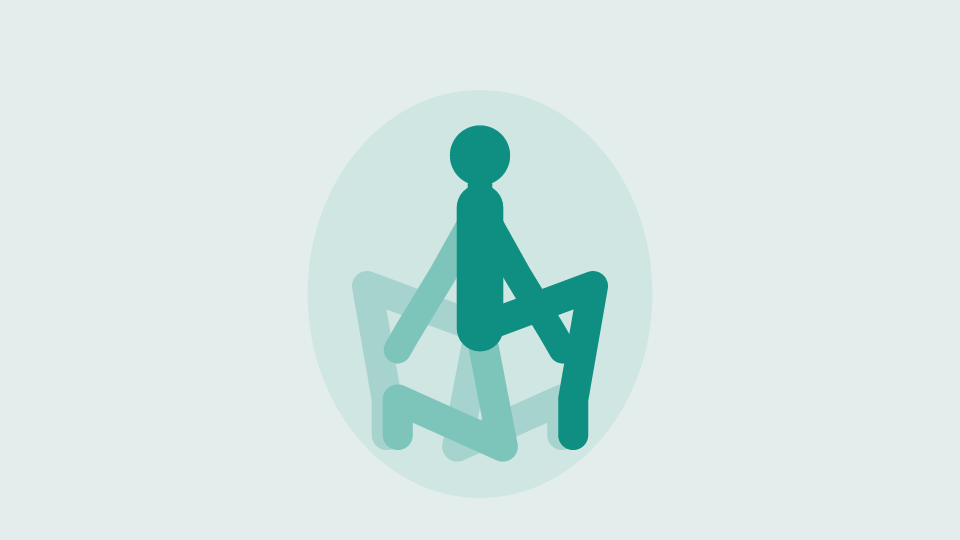
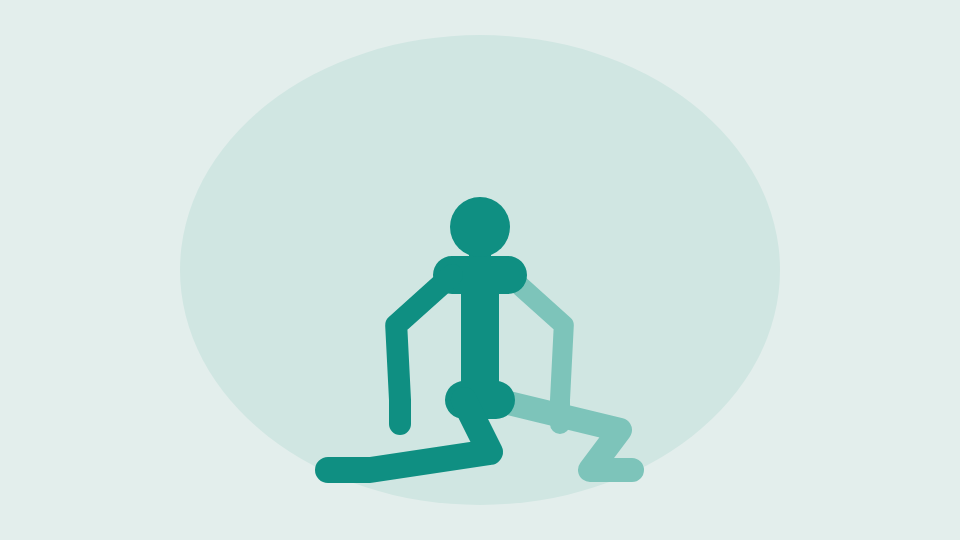
add new exercise animations and update exercise data for seated hip internal rotation, 90 to 90 side foot lifts, reverse clamshells, and windshield wipers with knee lift

Changed region(s): [[0.3125, 0.237, 0.6875, 0.9185]]

diff --git a/src/data/exercise-animations.ts b/src/data/exercise-animations.ts
@@ -812,10 +812,11 @@ const ROTATIONS_BASE = {
   farFoot: [590, 470, 0],
 } satisfies Partial<Pose>;
 
+/** The back knee, turned in, rests low on the floor beside the hips, so it stands clear of the body. */
 const ROTATIONS_RIGHT: Pose = {
   ...ROTATIONS_BASE,
   knees: [
-    [500, 400],
+    [490, 452],
     [620, 430],
   ],
 };
@@ -830,7 +831,7 @@ const ROTATIONS_LEFT: Pose = {
   ...ROTATIONS_BASE,
   knees: [
     [340, 430],
-    [460, 400],
+    [470, 452],
   ],
 };
 
@@ -2775,4 +2776,173 @@ export const LYING_EXTERNAL_ROTATION_STRETCH: FigureClip = {
   // Running across the body, parallel to the shoulders.
   dumbbells: { hands: ['nearHand'], angle: 90 },
   ...intoHold(LYING_ER_UP, [{ ms: 1800, pose: LYING_ER_DOWN }]),
+};
+
+// ===== Active hip internal rotation drills =====
+
+// --- Seated hip internal rotation: the hip rotation test's swing out to the side, repeated against a band around the feet ---
+
+const SEATED_ROTATED_IN: Pose = { ...SEATED, nearFoot: shinAt(-40) };
+
+export const SEATED_HIP_INTERNAL_ROTATION: FigureClip = {
+  view: 'side',
+  widths: STANDING_FRONT_WIDTHS,
+  armBends: [-1, 1],
+  miniBand: 'ankles',
+  scenery: TABLE,
+  zoom: 1.3,
+  focus: [480, 300],
+  stillFrame: 2,
+  keyframes: [
+    { ms: 0, pose: SEATED },
+    { ms: 300, pose: SEATED },
+    { ms: 1200, pose: SEATED_ROTATED_IN },
+    { ms: 400, pose: SEATED_ROTATED_IN },
+    { ms: 1200, pose: SEATED },
+  ],
+};
+
+// --- 90 to 90 side foot lifts: in the 90 to 90, turned toward the front leg, the back foot lifts off the floor ---
+
+/** The 90 to 90, with the back foot, the far one, drawn in a little so it has room to lift. */
+const SIDE_FOOT_SEATED: Pose = { ...ROTATIONS_LEFT, farFoot: [565, 468, 0] };
+/**
+ * Turned toward the front shin on the figure's right, as in the 90 to 90, but sitting tall rather
+ * than folding down, with the hands resting on the floor beside it.
+ */
+const SIDE_FOOT_TURNED: Pose = {
+  ...SIDE_FOOT_SEATED,
+  torso: 120,
+  torsoLength: 120,
+  neck: 125,
+  nearHand: [360, 440, -90],
+  farHand: [405, 420, -90],
+};
+/** The back foot lifts, the knee staying down. */
+const SIDE_FOOT_LIFTED: Pose = { ...SIDE_FOOT_TURNED, farFoot: [560, 420, 20] };
+
+export const NINETY_TO_NINETY_SIDE_FOOT_LIFTS: FigureClip = {
+  view: 'above',
+  widths: { shoulder: 28, hip: 16 },
+  armBends: [-1, 1],
+  stillFrame: 3,
+  keyframes: [
+    { ms: 0, pose: SIDE_FOOT_SEATED },
+    { ms: 400, pose: SIDE_FOOT_SEATED },
+    { ms: 1200, pose: SIDE_FOOT_TURNED },
+    { ms: 1000, pose: SIDE_FOOT_LIFTED },
+    { ms: 500, pose: SIDE_FOOT_LIFTED },
+    { ms: 1000, pose: SIDE_FOOT_TURNED },
+    { ms: 500, pose: SIDE_FOOT_TURNED },
+    { ms: 1000, pose: SIDE_FOOT_LIFTED },
+    { ms: 500, pose: SIDE_FOOT_LIFTED },
+    { ms: 1000, pose: SIDE_FOOT_TURNED },
+    { ms: 1200, pose: SIDE_FOOT_SEATED },
+  ],
+};
+
+// --- Windshield wipers with knee lift: feet hip-width, the knees tip side to side without touching down, the top knee lifting against the band ---
+
+/** Leaning back on the hands, with the feet about hip-width apart and the knees up. */
+const WIPERS_UP: Pose = {
+  ...ROTATIONS_BASE,
+  nearHand: [390, 405, -90],
+  farHand: [570, 405, -90],
+  nearFoot: [440, 470, 180],
+  farFoot: [520, 470, 0],
+  knees: [
+    [445, 330],
+    [515, 330],
+  ],
+};
+/** Tipped to the figure's right, both knees hovering well off the floor. */
+const WIPERS_LEFT: Pose = {
+  ...WIPERS_UP,
+  knees: [
+    [370, 382],
+    [438, 362],
+  ],
+};
+/** The top knee lifts away from the bottom one, stretching the band, and brings its foot up off the floor. */
+const WIPERS_LEFT_LIFTED: Pose = {
+  ...WIPERS_UP,
+  farFoot: [545, 405, 10],
+  knees: [
+    [370, 382],
+    [472, 328],
+  ],
+};
+const WIPERS_RIGHT: Pose = {
+  ...WIPERS_UP,
+  knees: [
+    [522, 362],
+    [590, 382],
+  ],
+};
+const WIPERS_RIGHT_LIFTED: Pose = {
+  ...WIPERS_UP,
+  nearFoot: [415, 405, 170],
+  knees: [
+    [488, 328],
+    [590, 382],
+  ],
+};
+
+export const WINDSHIELD_WIPERS_WITH_KNEE_LIFT: FigureClip = {
+  ...NINETY_TO_NINETY_ROTATIONS,
+  miniBand: 'knees',
+  stillFrame: 3,
+  keyframes: [
+    { ms: 0, pose: WIPERS_RIGHT },
+    { ms: 900, pose: WIPERS_UP, ease: 'in' },
+    { ms: 900, pose: WIPERS_LEFT, ease: 'out' },
+    { ms: 800, pose: WIPERS_LEFT_LIFTED },
+    { ms: 300, pose: WIPERS_LEFT_LIFTED },
+    { ms: 800, pose: WIPERS_LEFT },
+    { ms: 900, pose: WIPERS_UP, ease: 'in' },
+    { ms: 900, pose: WIPERS_RIGHT, ease: 'out' },
+    { ms: 800, pose: WIPERS_RIGHT_LIFTED },
+    { ms: 300, pose: WIPERS_RIGHT_LIFTED },
+    { ms: 800, pose: WIPERS_RIGHT },
+  ],
+};
+
+// --- Reverse clamshells: lying on the side, facing the camera, the top knee opens up, then the top foot lifts ---
+
+/** Hips and knees bent, the thighs reaching partly toward the camera, so the legs look short. */
+const CLAM_CLOSED: Pose = {
+  ...SIDE_LYING_IN,
+  nearFoot: [235, 432, 180],
+  farFoot: [235, 456, 180],
+  knees: [
+    [305, 426],
+    [305, 454],
+  ],
+};
+const CLAM_OPEN: Pose = {
+  ...CLAM_CLOSED,
+  nearFoot: [262, 430, 180],
+  knees: [
+    [330, 360],
+    [305, 454],
+  ],
+};
+/** The knee stays put as the shin swings up around it. */
+const CLAM_FOOT_UP: Pose = { ...CLAM_OPEN, nearFoot: [245, 350, 160] };
+
+export const REVERSE_CLAMSHELLS: FigureClip = {
+  view: 'side',
+  widths: { shoulder: 18, hip: 14 },
+  zoom: 1.3,
+  focus: [420, 380],
+  stillFrame: 3,
+  keyframes: [
+    { ms: 0, pose: CLAM_CLOSED },
+    { ms: 300, pose: CLAM_CLOSED },
+    { ms: 1200, pose: CLAM_OPEN },
+    { ms: 1000, pose: CLAM_FOOT_UP },
+    { ms: 300, pose: CLAM_FOOT_UP },
+    { ms: 1000, pose: CLAM_OPEN },
+    { ms: 1200, pose: CLAM_CLOSED },
+  ],
 };

diff --git a/src/data/exercises.ts b/src/data/exercises.ts
@@ -51,6 +51,7 @@ import {
   NECK_SIDE_STRETCH,
   NINETY_TO_NINETY,
   NINETY_TO_NINETY_ROTATIONS,
+  NINETY_TO_NINETY_SIDE_FOOT_LIFTS,
   OPEN_BOOK,
   OVERHEAD_TRICEPS_STRETCH,
   PANCAKE,
@@ -60,9 +61,11 @@ import {
   PUPPY_POSE,
   PYRAMID_STRETCH,
   RESTING_COSSACK_SQUAT,
+  REVERSE_CLAMSHELLS,
   REVERSE_SCORPION,
   REVERSE_TABLETOP,
   SCAP_MOBILIZATION,
+  SEATED_HIP_INTERNAL_ROTATION,
   SEATED_PIKE_STRETCH,
   SEATED_SHOULDER_EXTENSION,
   SEATED_STRADDLE_SIDE_BEND,
@@ -75,6 +78,7 @@ import {
   THE_SAGITTARIUS,
   THREAD_THE_NEEDLE,
   THREE_LEGGED_DOWNWARD_FACING_DOG,
+  WINDSHIELD_WIPERS_WITH_KNEE_LIFT,
   WORLDS_GREATEST_STRETCH,
   WRIST_ROCKS,
 } from './exercise-animations';
@@ -1233,6 +1237,70 @@ const ALL_EXERCISES: Exercise[] = [
     photo: require('@/assets/images/exercises/lying-external-rotation-stretch.png'),
     animation: LYING_EXTERNAL_ROTATION_STRETCH,
     twoSided: true,
+  },
+  {
+    id: 'seated-hip-internal-rotation',
+    name: 'Seated hip internal rotation',
+    stimulus: 'Hip internal rotation and deep hip rotators',
+    areas: ['hips'],
+    position: 'seated',
+    instructions: [
+      'Sit on the edge of a chair with your knees bent at 90°, in line with your hips, and a mini band looped around both feet',
+      'Keeping both knees in place, swing one foot out to the side against the band as far as you can, turning the thigh in',
+      'Bring it back and keep repeating, then switch sides. Take the band off to make it easier',
+    ],
+    photo: require('@/assets/images/exercises/seated-hip-internal-rotation.png'),
+    animation: SEATED_HIP_INTERNAL_ROTATION,
+    twoSided: true,
+    active: true,
+  },
+  {
+    id: '90-to-90-side-foot-lifts',
+    name: '90 to 90 side foot lifts',
+    stimulus: 'Hip internal rotation and deep hip rotators',
+    areas: ['hips'],
+    position: 'seated',
+    instructions: [
+      'Sit in the 90 to 90, both legs bent at 90°, one in front and one to the side',
+      'Sit tall and turn your chest toward the front leg, then, keeping both knees on the floor, lift the back foot off the floor as high as you can, even if it barely moves',
+      'Lower it slowly and keep repeating, then switch sides. Sit on a cushion to make it easier',
+    ],
+    photo: require('@/assets/images/exercises/90-to-90-side-foot-lifts.png'),
+    animation: NINETY_TO_NINETY_SIDE_FOOT_LIFTS,
+    twoSided: true,
+    active: true,
+  },
+  {
+    id: 'reverse-clamshells',
+    name: 'Reverse clamshells',
+    stimulus: 'Hip internal rotation, glutes and outer hip',
+    areas: ['hips'],
+    position: 'seated',
+    instructions: [
+      'Lie on your side with your hips stacked and your knees bent, feet together',
+      'Open your top knee up toward the ceiling',
+      'Keeping that knee where it is, lift the top foot up toward the ceiling, then lower it and keep repeating. Switch sides',
+    ],
+    photo: require('@/assets/images/exercises/reverse-clamshells.png'),
+    animation: REVERSE_CLAMSHELLS,
+    twoSided: true,
+    active: true,
+  },
+  {
+    id: 'windshield-wipers-with-knee-lift',
+    name: 'Windshield wipers with knee lift',
+    stimulus: 'Hip internal and external rotation and glutes',
+    areas: ['hips'],
+    position: 'seated',
+    instructions: [
+      'Sit with a mini band around your knees, knees bent and feet about hip-width apart, and lean back on your hands',
+      'Tip both knees to one side, keeping them hovering off the floor and pressing out into the band, then lift the top knee against the band, letting its foot come up too, and lower it',
+      'Tip both knees over to the other side, lift the top knee again, and keep alternating. Take the band off to make it easier',
+    ],
+    photo: require('@/assets/images/exercises/windshield-wipers-with-knee-lift.png'),
+    animation: WINDSHIELD_WIPERS_WITH_KNEE_LIFT,
+    active: true,
+    oneMinuteOnly: true,
   },
 ];
 

diff --git a/src/lib/figure-rig.ts b/src/lib/figure-rig.ts
@@ -107,6 +107,8 @@ export type FigureClip = {
   outlineNearArm?: boolean;
   /** A band held in this hand and looped around this foot. */
   band?: readonly [hand: 'nearHand' | 'farHand', foot: 'nearFoot' | 'farFoot'];
+  /** A mini loop band around both ankles or both knees. */
+  miniBand?: 'ankles' | 'knees';
   /** Light dumbbells held in these hands, with the handle kept at this angle on screen however the hand turns. */
   dumbbells?: { hands: readonly ('nearHand' | 'farHand')[]; angle: number };
   scenery?: readonly Scenery[];
@@ -132,7 +134,7 @@ export type FigurePaths = {
   neck: string;
   headX: number;
   headY: number;
-  /** Empty when the clip has no band. */
+  /** Empty when the clip has no band or mini band. */
   band: string;
   /** The handles and the plates on their ends, drawn thicker. Empty when the clip has no dumbbells. */
   dumbbellHandles: string;
@@ -394,6 +396,28 @@ export function solveFigure(pose: Pose, clip: FigureClip): FigurePaths {
     band =
       `M${hand[0]} ${hand[1]}L${endX - uy * BAND_WRAP} ${endY + ux * BAND_WRAP}` +
       `M${hand[0]} ${hand[1]}L${endX + uy * BAND_WRAP} ${endY - ux * BAND_WRAP}`;
+  }
+  // A mini loop band is two strands running between either side of the ankles or knees, and a
+  // little past each, so it looks wrapped around both legs.
+  if (clip.miniBand) {
+    const kneeOf = (root: Point, foot: Extremity, bend: Bend, knee?: Point): Point => {
+      if (knee) return knee;
+      const end = withinReach(root, foot, BONES.thigh + BONES.shin);
+      return solveJoint(root, [end[0], end[1]], BONES.thigh, BONES.shin, bend);
+    };
+    const [a, b]: Point[] =
+      clip.miniBand === 'ankles'
+        ? [
+            [nearFoot[0], nearFoot[1]],
+            [farFoot[0], farFoot[1]],
+          ]
+        : [kneeOf(nearHip, nearFoot, legBends[0], knees?.[0]), kneeOf(farHip, farFoot, legBends[1], knees?.[1])];
+    const length = Math.max(0.001, Math.hypot(b[0] - a[0], b[1] - a[1]));
+    const ux = ((b[0] - a[0]) / length) * BAND_WRAP;
+    const uy = ((b[1] - a[1]) / length) * BAND_WRAP;
+    band =
+      `M${a[0] - ux - uy} ${a[1] - uy + ux}L${b[0] + ux - uy} ${b[1] + uy + ux}` +
+      `M${a[0] - ux + uy} ${a[1] - uy - ux}L${b[0] + ux + uy} ${b[1] + uy - ux}`;
   }
 
   // The handle runs through the fist, halfway along the hand, with a plate on each end.

diff --git a/src/components/exercise-figure.tsx b/src/components/exercise-figure.tsx
@@ -106,7 +106,7 @@ export function ExerciseFigure({ clip, playing = true }: { clip: FigureClip; pla
             <AnimatedPath animatedProps={nearArm} stroke={COLORS.background} strokeWidth={32} {...LIMB} />
           )}
           <AnimatedPath animatedProps={nearArm} stroke={COLORS.near} strokeWidth={22} {...LIMB} />
-          {clip.band && <AnimatedPath animatedProps={band} stroke={COLORS.band} strokeWidth={10} {...LIMB} />}
+          {(clip.band || clip.miniBand) && <AnimatedPath animatedProps={band} stroke={COLORS.band} strokeWidth={10} {...LIMB} />}
           {clip.dumbbells && (
             <>
               <AnimatedPath animatedProps={dumbbellHandles} stroke={COLORS.weight} strokeWidth={8} {...LIMB} />
